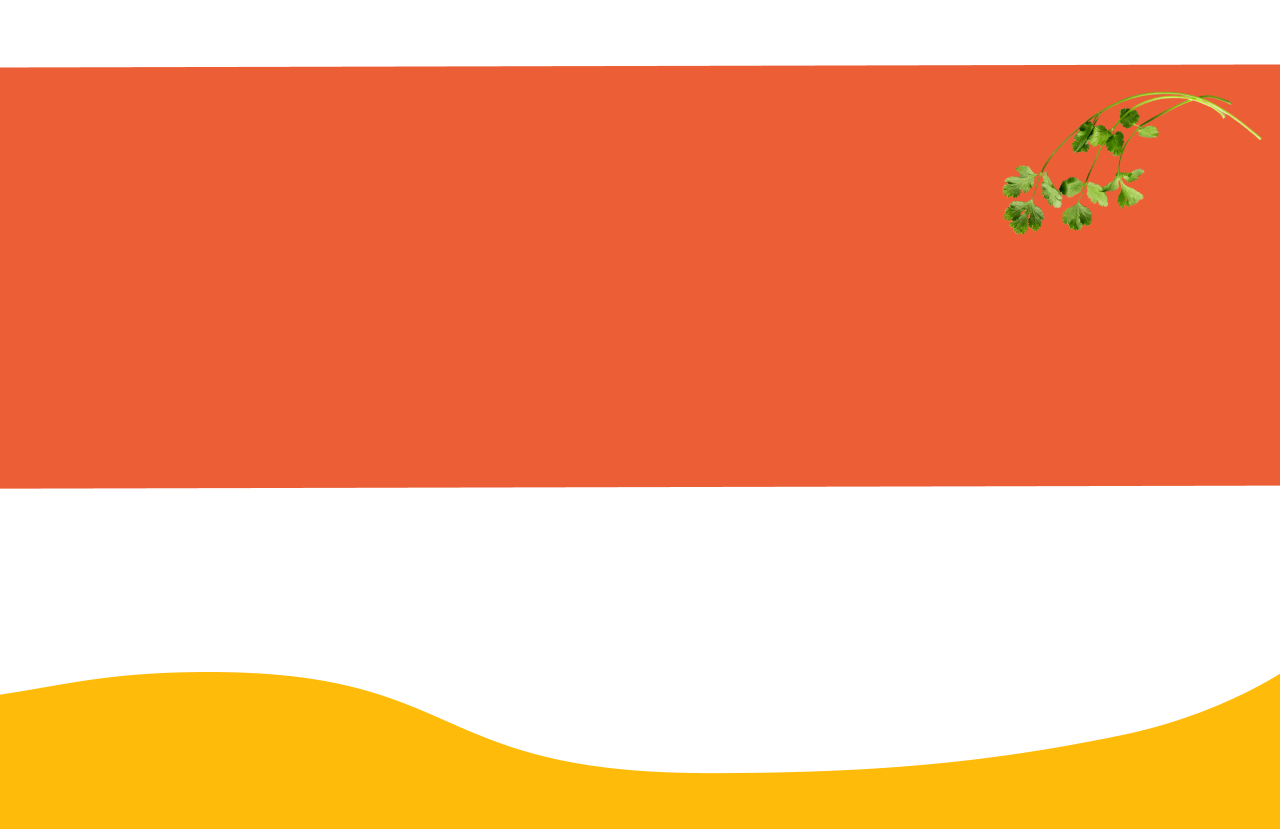
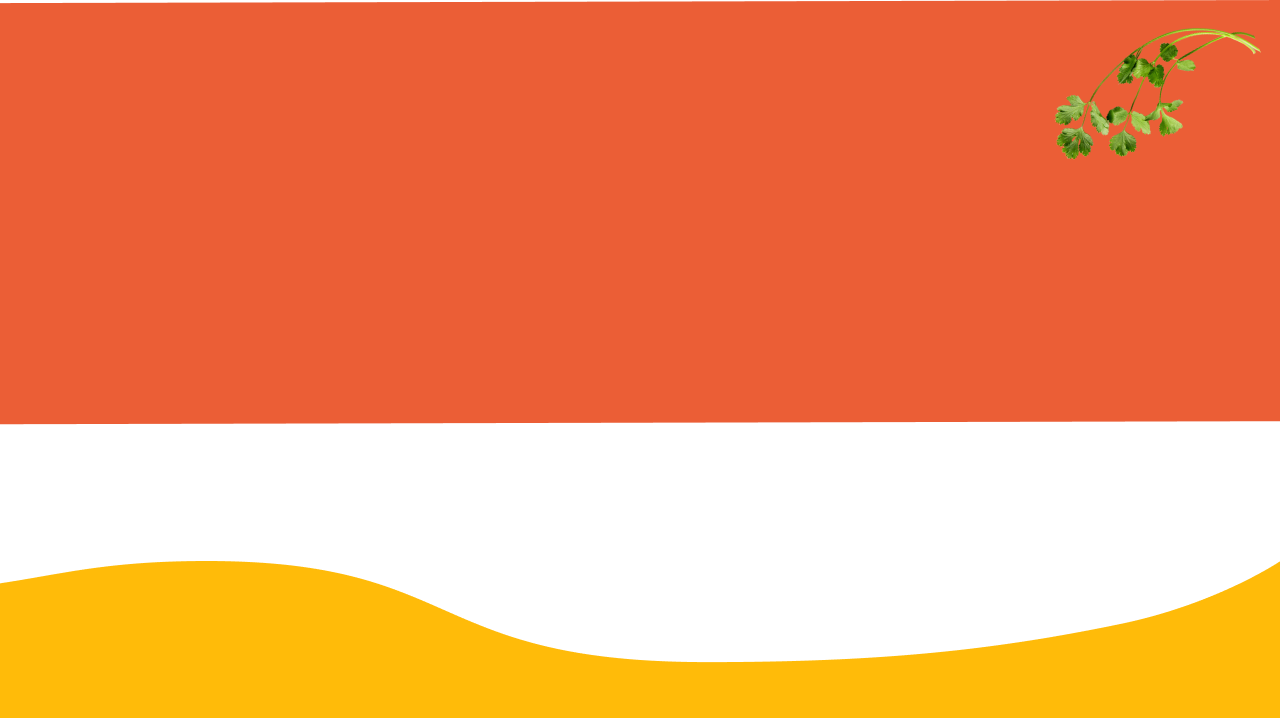
terminada primeiro componente do perfil ong

diff --git a/src/Components/PerfilOng/PerfilOng.jsx b/src/Components/PerfilOng/PerfilOng.jsx
@@ -8,9 +8,19 @@ function PerfilOng() {
         <>
             <section className={styles.Header_invisivel}></section>
             <section className={styles.page1}>
-                <div>
-                    <img className={styles.perfil} src={hamburgada} alt="" />
-                </div>
+                
+            <div className={styles.card}>
+              <div className={styles.foto}>
+                <img src={hamburgada} alt="" />
+              </div>
+              <h1>Hamburgada do Bem</h1>
+              <h4>Telefone:  (11) 3535-3535</h4>
+              <h4>E-mail: hamburgadadobem@gmail.com</h4>
+              <p>
+              A hamburgada do bem é uma ong que nasceu em 2015 ,com intuito de levar amor diversão e informação para crianças em comunidades carentes.
+
+Hoje já atendeu quase 100 mil crianças em 4 países com mais de 50 mil voluntários participantes.               </p>
+            </div>
     
             </section>
             <PerfilOngPt2 />

diff --git a/src/Css/PerfilOng_css/PerfilOng.module.css b/src/Css/PerfilOng_css/PerfilOng.module.css
@@ -1,20 +1,45 @@
-/* .Header_invisivel{
+.Header_invisivel{
     width: 100%;
     height:80px;
-} */
+}
 
 .page1{
-    /* background-color: rgb(223, 255, 251); */
-    height: 180em;
+    background-color: rgb(223, 255, 251);
+    height: 54rem;
     background-image: url(../../Images/perfilong1.png);
     background-repeat: no-repeat;
-    background-size: 100% 35%;
+    background-size: 100%;
     display: flex;
     justify-content: space-evenly;
     /* align-items: center; */
 } 
 
-.perfil{
-    height: 20em;
-    width: 20em;
+.card{
+    width: 55rem;
+    height: 600px;
+    background-color: rgb(253, 253, 253);
+    display: flex;
+    align-items: center;
+    flex-direction: column;
+    justify-content: space-evenly;
+    text-align: center;
+    border-radius: 5px;
+    margin-top: 120px;
+}
+
+.card h1{
+    font-weight: bolder;
+}
+
+.card h4{
+    font-weight: bold;
+}
+
+.card p{
+    width: 40rem;
+}
+
+.foto{
+    width: 13rem;
+    height: 13rem;
 }

diff --git a/src/Css/PerfilOng_css/PerfilOngPt2.module.css b/src/Css/PerfilOng_css/PerfilOngPt2.module.css
@@ -1,0 +1,10 @@
+.page2{
+    background-color: #ffd15e;
+    background-image: url(../../Images/perfilong2.png);
+    height: 180rem;
+    background-repeat: no-repeat;
+    background-size: 100%;
+    display: flex;
+    justify-content: space-evenly;
+
+}

diff --git a/src/Components/PerfilOng/PerfilOngPt2.jsx b/src/Components/PerfilOng/PerfilOngPt2.jsx
@@ -3,7 +3,7 @@ import styles from '../../Css/PerfilOng_css/PerfilOngPt2.module.css'
 function PerfilOngPt2(){
     return(
         <section className={styles.page2}>
-
+            
         </section>
     )
 }
